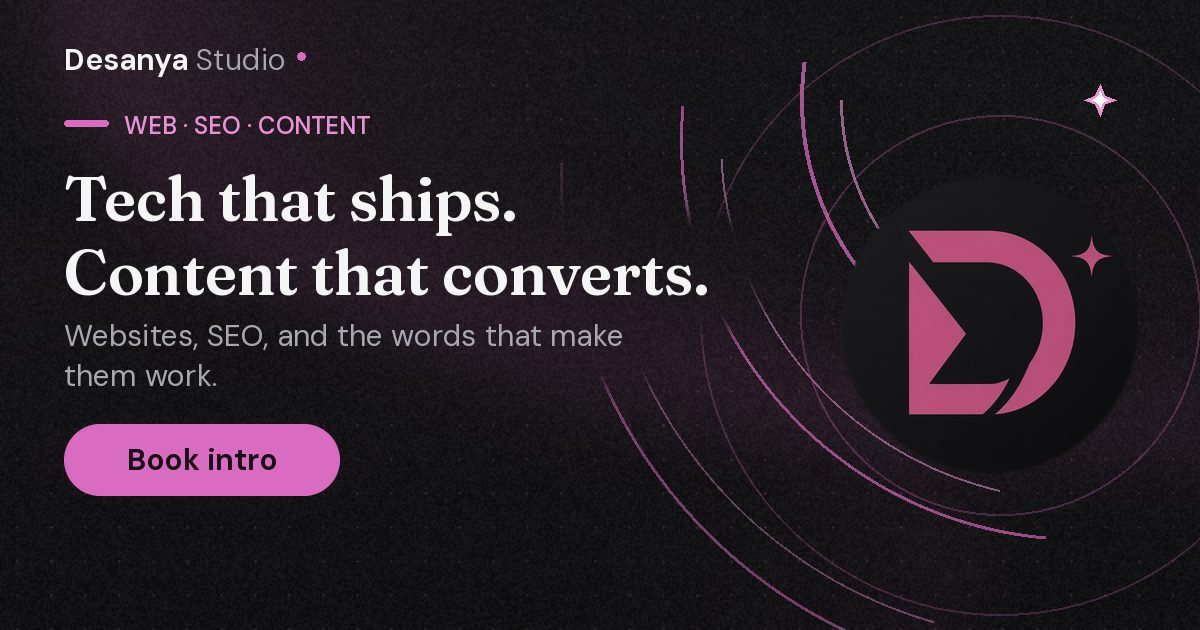
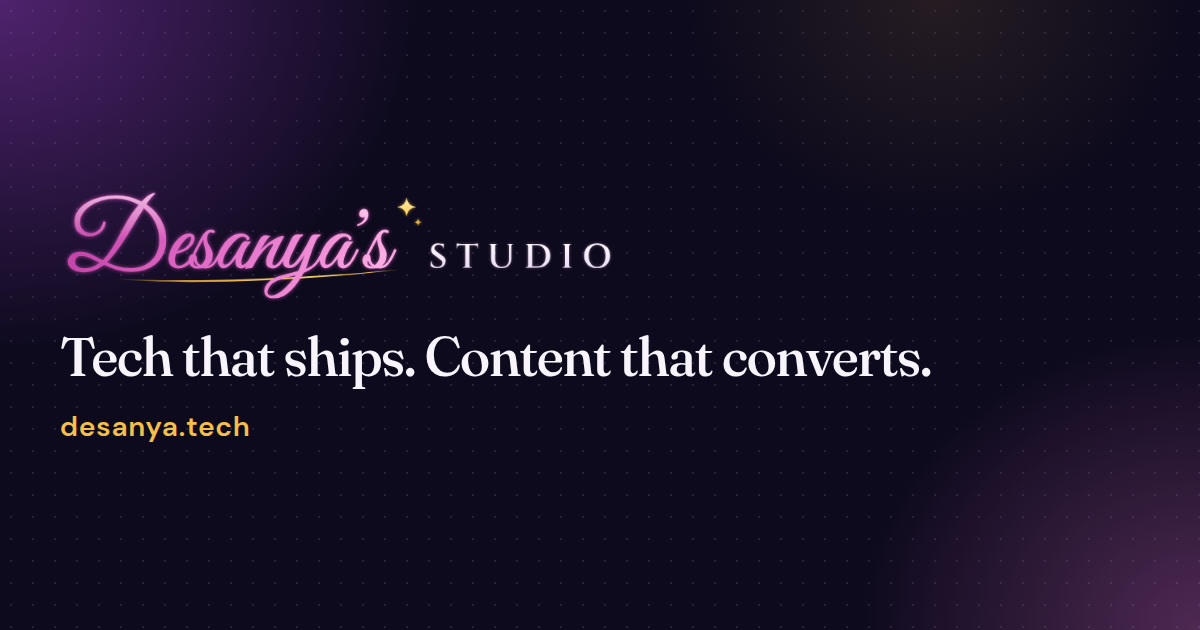
Rebuild the brand preview collage and the link-preview image.
Replace the charcoal brand board and share card with the navy, plum, and magenta lockup, and cache-bust the Gallery tile and Open Graph image.

diff --git a/gallery.html b/gallery.html
@@ -17,12 +17,12 @@
   <meta name="theme-color" content="#0d0a1d">
   <meta property="og:site_name" content="Desanya Studio">
   <meta property="og:locale" content="en_US">
-  <meta property="og:image" content="https://desanya.tech/assets/desanya-og.jpg?v=4">
+  <meta property="og:image" content="https://desanya.tech/assets/desanya-og.jpg?v=5">
   <meta property="og:image:width" content="1200">
   <meta property="og:image:height" content="630">
   <meta property="og:image:alt" content="Desanya Studio">
   <meta name="twitter:card" content="summary_large_image">
-  <meta name="twitter:image" content="https://desanya.tech/assets/desanya-og.jpg?v=4">
+  <meta name="twitter:image" content="https://desanya.tech/assets/desanya-og.jpg?v=5">
   <link rel="icon" href="assets/favicon.ico?v=4" sizes="any">
   <link rel="icon" type="image/png" sizes="16x16" href="assets/favicon-16.png?v=4">
   <link rel="icon" type="image/png" sizes="32x32" href="assets/favicon-32.png?v=4">
@@ -237,10 +237,10 @@
           </li>
 
           <li class="gallery-item">
-            <a class="gallery-link" href="assets/brand-preview.jpg" data-lightbox data-lb-set="brand" data-caption="Brand identity — the Desanya Studio web and social kit.">
+            <a class="gallery-link" href="assets/brand-preview.jpg?v=2" data-lightbox data-lb-set="brand" data-caption="Brand identity — the Desanya Studio web and social kit.">
               <picture>
-                <source srcset="assets/brand-preview.webp" type="image/webp">
-                <img class="frame-top" src="assets/brand-preview.jpg" alt="Desanya Studio brand identity preview" width="1100" height="1572" loading="lazy">
+                <source srcset="assets/brand-preview.webp?v=2" type="image/webp">
+                <img class="frame-top" src="assets/brand-preview.jpg?v=2" alt="Desanya Studio brand identity preview" width="1100" height="1572" loading="lazy">
               </picture>
               <span class="gallery-meta">
                 <span class="gallery-title">Brand identity</span>

diff --git a/index.html b/index.html
@@ -17,12 +17,12 @@
   <meta name="theme-color" content="#0d0a1d">
   <meta property="og:site_name" content="Desanya Studio">
   <meta property="og:locale" content="en_US">
-  <meta property="og:image" content="https://desanya.tech/assets/desanya-og.jpg?v=4">
+  <meta property="og:image" content="https://desanya.tech/assets/desanya-og.jpg?v=5">
   <meta property="og:image:width" content="1200">
   <meta property="og:image:height" content="630">
   <meta property="og:image:alt" content="Desanya Studio">
   <meta name="twitter:card" content="summary_large_image">
-  <meta name="twitter:image" content="https://desanya.tech/assets/desanya-og.jpg?v=4">
+  <meta name="twitter:image" content="https://desanya.tech/assets/desanya-og.jpg?v=5">
   <link rel="icon" href="assets/favicon.ico?v=4" sizes="any">
   <link rel="icon" type="image/png" sizes="16x16" href="assets/favicon-16.png?v=4">
   <link rel="icon" type="image/png" sizes="32x32" href="assets/favicon-32.png?v=4">
@@ -42,7 +42,7 @@
     "name": "Desanya Studio",
     "url": "https://desanya.tech/",
     "logo": "https://desanya.tech/assets/favicon-512.png?v=4",
-    "image": "https://desanya.tech/assets/desanya-og.jpg?v=3",
+    "image": "https://desanya.tech/assets/desanya-og.jpg?v=5",
     "description": "Desanya Studio builds clean websites, SEO & Google visibility, and content that converts — for tech talent and small businesses who want clarity over theater.",
     "areaServed": [
       {"@type": "AdministrativeArea", "name": "East Tennessee"},

diff --git a/404.html b/404.html
@@ -12,12 +12,12 @@
   <meta name="theme-color" content="#0d0a1d">
   <meta property="og:site_name" content="Desanya Studio">
   <meta property="og:locale" content="en_US">
-  <meta property="og:image" content="https://desanya.tech/assets/desanya-og.jpg?v=4">
+  <meta property="og:image" content="https://desanya.tech/assets/desanya-og.jpg?v=5">
   <meta property="og:image:width" content="1200">
   <meta property="og:image:height" content="630">
   <meta property="og:image:alt" content="Desanya Studio">
   <meta name="twitter:card" content="summary_large_image">
-  <meta name="twitter:image" content="https://desanya.tech/assets/desanya-og.jpg?v=4">
+  <meta name="twitter:image" content="https://desanya.tech/assets/desanya-og.jpg?v=5">
   <link rel="icon" href="/assets/favicon.ico?v=4" sizes="any">
   <link rel="icon" type="image/png" sizes="16x16" href="/assets/favicon-16.png?v=4">
   <link rel="icon" type="image/png" sizes="32x32" href="/assets/favicon-32.png?v=4">

diff --git a/blog/index.html b/blog/index.html
@@ -17,12 +17,12 @@
   <meta name="theme-color" content="#0d0a1d">
   <meta property="og:site_name" content="Desanya Studio">
   <meta property="og:locale" content="en_US">
-  <meta property="og:image" content="https://desanya.tech/assets/desanya-og.jpg?v=4">
+  <meta property="og:image" content="https://desanya.tech/assets/desanya-og.jpg?v=5">
   <meta property="og:image:width" content="1200">
   <meta property="og:image:height" content="630">
   <meta property="og:image:alt" content="Desanya Studio">
   <meta name="twitter:card" content="summary_large_image">
-  <meta name="twitter:image" content="https://desanya.tech/assets/desanya-og.jpg?v=4">
+  <meta name="twitter:image" content="https://desanya.tech/assets/desanya-og.jpg?v=5">
   <link rel="icon" href="/assets/favicon.ico?v=4" sizes="any">
   <link rel="icon" type="image/png" sizes="16x16" href="/assets/favicon-16.png?v=4">
   <link rel="icon" type="image/png" sizes="32x32" href="/assets/favicon-32.png?v=4">

diff --git a/thanks/index.html b/thanks/index.html
@@ -12,12 +12,12 @@
   <meta name="theme-color" content="#0d0a1d">
   <meta property="og:site_name" content="Desanya Studio">
   <meta property="og:locale" content="en_US">
-  <meta property="og:image" content="https://desanya.tech/assets/desanya-og.jpg?v=4">
+  <meta property="og:image" content="https://desanya.tech/assets/desanya-og.jpg?v=5">
   <meta property="og:image:width" content="1200">
   <meta property="og:image:height" content="630">
   <meta property="og:image:alt" content="Desanya Studio">
   <meta name="twitter:card" content="summary_large_image">
-  <meta name="twitter:image" content="https://desanya.tech/assets/desanya-og.jpg?v=4">
+  <meta name="twitter:image" content="https://desanya.tech/assets/desanya-og.jpg?v=5">
   <link rel="icon" href="/assets/favicon.ico?v=4" sizes="any">
   <link rel="icon" type="image/png" sizes="16x16" href="/assets/favicon-16.png?v=4">
   <link rel="icon" type="image/png" sizes="32x32" href="/assets/favicon-32.png?v=4">

diff --git a/contact.html b/contact.html
@@ -17,12 +17,12 @@
   <meta name="theme-color" content="#0d0a1d">
   <meta property="og:site_name" content="Desanya Studio">
   <meta property="og:locale" content="en_US">
-  <meta property="og:image" content="https://desanya.tech/assets/desanya-og.jpg?v=4">
+  <meta property="og:image" content="https://desanya.tech/assets/desanya-og.jpg?v=5">
   <meta property="og:image:width" content="1200">
   <meta property="og:image:height" content="630">
   <meta property="og:image:alt" content="Desanya Studio">
   <meta name="twitter:card" content="summary_large_image">
-  <meta name="twitter:image" content="https://desanya.tech/assets/desanya-og.jpg?v=4">
+  <meta name="twitter:image" content="https://desanya.tech/assets/desanya-og.jpg?v=5">
   <link rel="icon" href="assets/favicon.ico?v=4" sizes="any">
   <link rel="icon" type="image/png" sizes="16x16" href="assets/favicon-16.png?v=4">
   <link rel="icon" type="image/png" sizes="32x32" href="assets/favicon-32.png?v=4">

diff --git a/process.html b/process.html
@@ -17,12 +17,12 @@
   <meta name="theme-color" content="#0d0a1d">
   <meta property="og:site_name" content="Desanya Studio">
   <meta property="og:locale" content="en_US">
-  <meta property="og:image" content="https://desanya.tech/assets/desanya-og.jpg?v=4">
+  <meta property="og:image" content="https://desanya.tech/assets/desanya-og.jpg?v=5">
   <meta property="og:image:width" content="1200">
   <meta property="og:image:height" content="630">
   <meta property="og:image:alt" content="Desanya Studio">
   <meta name="twitter:card" content="summary_large_image">
-  <meta name="twitter:image" content="https://desanya.tech/assets/desanya-og.jpg?v=4">
+  <meta name="twitter:image" content="https://desanya.tech/assets/desanya-og.jpg?v=5">
   <link rel="icon" href="assets/favicon.ico?v=4" sizes="any">
   <link rel="icon" type="image/png" sizes="16x16" href="assets/favicon-16.png?v=4">
   <link rel="icon" type="image/png" sizes="32x32" href="assets/favicon-32.png?v=4">

diff --git a/services.html b/services.html
@@ -17,12 +17,12 @@
   <meta name="theme-color" content="#0d0a1d">
   <meta property="og:site_name" content="Desanya Studio">
   <meta property="og:locale" content="en_US">
-  <meta property="og:image" content="https://desanya.tech/assets/desanya-og.jpg?v=4">
+  <meta property="og:image" content="https://desanya.tech/assets/desanya-og.jpg?v=5">
   <meta property="og:image:width" content="1200">
   <meta property="og:image:height" content="630">
   <meta property="og:image:alt" content="Desanya Studio">
   <meta name="twitter:card" content="summary_large_image">
-  <meta name="twitter:image" content="https://desanya.tech/assets/desanya-og.jpg?v=4">
+  <meta name="twitter:image" content="https://desanya.tech/assets/desanya-og.jpg?v=5">
   <link rel="icon" href="assets/favicon.ico?v=4" sizes="any">
   <link rel="icon" type="image/png" sizes="16x16" href="assets/favicon-16.png?v=4">
   <link rel="icon" type="image/png" sizes="32x32" href="assets/favicon-32.png?v=4">

diff --git a/work.html b/work.html
@@ -17,12 +17,12 @@
   <meta name="theme-color" content="#0d0a1d">
   <meta property="og:site_name" content="Desanya Studio">
   <meta property="og:locale" content="en_US">
-  <meta property="og:image" content="https://desanya.tech/assets/desanya-og.jpg?v=4">
+  <meta property="og:image" content="https://desanya.tech/assets/desanya-og.jpg?v=5">
   <meta property="og:image:width" content="1200">
   <meta property="og:image:height" content="630">
   <meta property="og:image:alt" content="Desanya Studio">
   <meta name="twitter:card" content="summary_large_image">
-  <meta name="twitter:image" content="https://desanya.tech/assets/desanya-og.jpg?v=4">
+  <meta name="twitter:image" content="https://desanya.tech/assets/desanya-og.jpg?v=5">
   <link rel="icon" href="assets/favicon.ico?v=4" sizes="any">
   <link rel="icon" type="image/png" sizes="16x16" href="assets/favicon-16.png?v=4">
   <link rel="icon" type="image/png" sizes="32x32" href="assets/favicon-32.png?v=4">

diff --git a/partials/head-common.html b/partials/head-common.html
@@ -2,12 +2,12 @@
   <meta name="theme-color" content="#0d0a1d">
   <meta property="og:site_name" content="Desanya Studio">
   <meta property="og:locale" content="en_US">
-  <meta property="og:image" content="https://desanya.tech/assets/desanya-og.jpg?v=4">
+  <meta property="og:image" content="https://desanya.tech/assets/desanya-og.jpg?v=5">
   <meta property="og:image:width" content="1200">
   <meta property="og:image:height" content="630">
   <meta property="og:image:alt" content="Desanya Studio">
   <meta name="twitter:card" content="summary_large_image">
-  <meta name="twitter:image" content="https://desanya.tech/assets/desanya-og.jpg?v=4">
+  <meta name="twitter:image" content="https://desanya.tech/assets/desanya-og.jpg?v=5">
   <link rel="icon" href="assets/favicon.ico?v=4" sizes="any">
   <link rel="icon" type="image/png" sizes="16x16" href="assets/favicon-16.png?v=4">
   <link rel="icon" type="image/png" sizes="32x32" href="assets/favicon-32.png?v=4">
